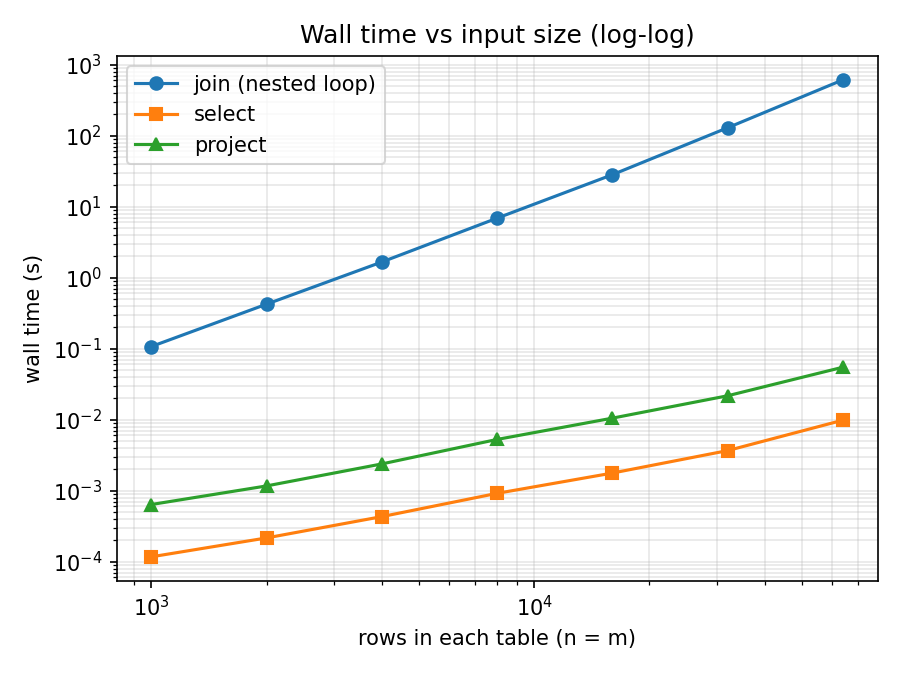
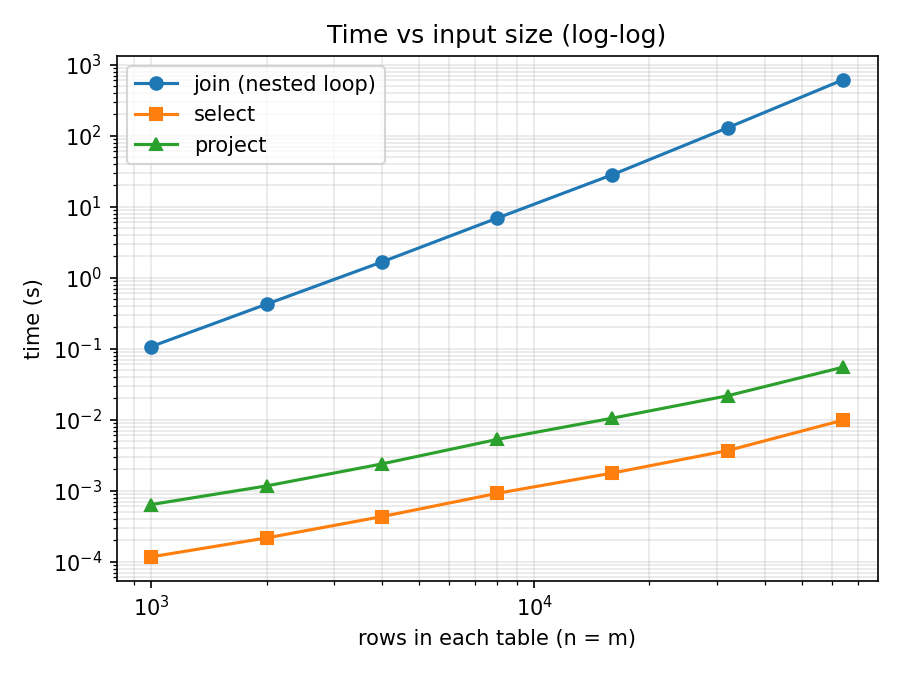
Plot label time (s); fix link in tables.md headings

Changed region(s): [[0.3422, 0.0311, 0.7778, 0.0622], [0.0311, 0.3733, 0.0622, 0.56]]

diff --git a/bench.py b/bench.py
@@ -138,12 +138,12 @@ def main():
     # ---- markdown tables and derived numbers --------------------------------------
     ns = [r[0] for r in join_rows]
     jt = [float(r[3]) for r in join_rows]
-    lines = ["## Join: R join[R.b=S.b] S (match rate 1)", "",
+    lines = ["## Join: `R join[R.b=S.b] S` (match rate 1)", "",
              "| n | m | comparisons | n*m | wall time (s) | output tuples |",
              "|---|---|---|---|---|---|"]
     for n, m, c, t, o in join_rows:
         lines.append(f"| {n} | {m} | {c} | {n * m} | {t} | {o} |")
-    lines += ["", "## select[b<n/2](R) and project[b](R)", "",
+    lines += ["", "## `select[b<n/2](R)` and `project[b](R)`", "",
               "| n | select tuples evaluated | select time (s) | select output "
               "| project time (s) | project output |",
               "|---|---|---|---|---|---|"]
@@ -197,8 +197,8 @@ def make_plots(out_dir, join_rows, unary_rows):
     ax.loglog(ns, [float(r[2]) for r in unary_rows], "s-", label="select")
     ax.loglog(ns, [float(r[4]) for r in unary_rows], "^-", label="project")
     ax.set_xlabel("rows in each table (n = m)")
-    ax.set_ylabel("wall time (s)")
-    ax.set_title("Wall time vs input size (log-log)")
+    ax.set_ylabel("time (s)")
+    ax.set_title("Time vs input size (log-log)")
     ax.grid(True, which="both", alpha=0.3)
     ax.legend()
     fig.tight_layout()

diff --git a/results/tables.md b/results/tables.md
@@ -1,4 +1,4 @@
-## Join: R join[R.b=S.b] S (match rate 1)
+## Join: `R join[R.b=S.b] S` (match rate 1)
 
 | n | m | comparisons | n*m | wall time (s) | output tuples |
 |---|---|---|---|---|---|
@@ -10,7 +10,7 @@
 | 32000 | 32000 | 1024000000 | 1024000000 | 129.156523 | 32000 |
 | 64000 | 64000 | 4096000000 | 4096000000 | 610.572866 | 64000 |
 
-## select[b<n/2](R) and project[b](R)
+## `select[b<n/2](R)` and `project[b](R)`
 
 | n | select tuples evaluated | select time (s) | select output | project time (s) | project output |
 |---|---|---|---|---|---|
